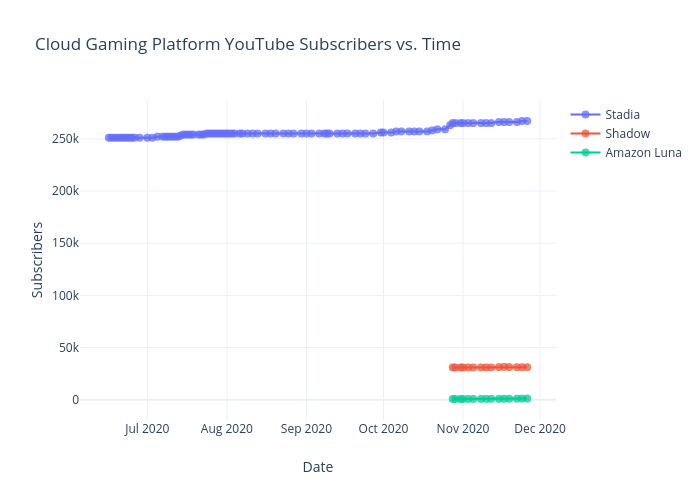
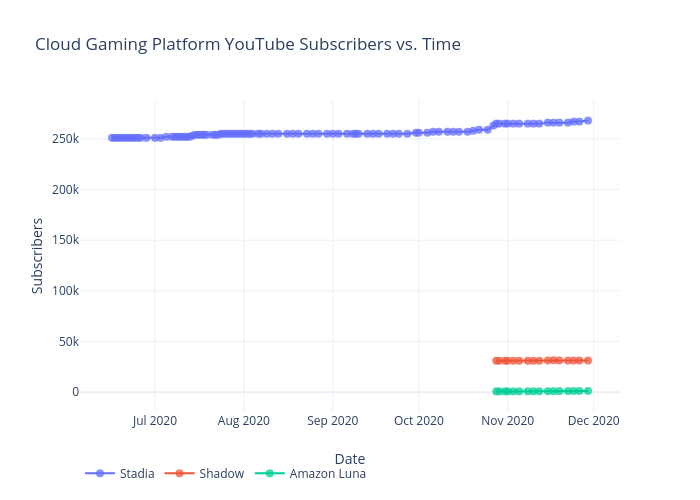
Add files via upload
Nov 29

diff --git a/youtube_platforms/figure.js b/youtube_platforms/figure.js
@@ -211,7 +211,8 @@ var figure = {
                 "266000",
                 "266000",
                 "267000",
-                "267000"
+                "267000",
+                "268000"
             ],
             "marker": {
                 "size": 8,
@@ -428,6 +429,7 @@ var figure = {
                 "31300",
                 "31500",
                 "31300",
+                "31200",
                 "31200",
                 "31200",
                 "31200"
@@ -649,7 +651,8 @@ var figure = {
                 "1010",
                 "1080",
                 "1120",
-                "1180"
+                "1180",
+                "1200"
             ],
             "marker": {
                 "size": 8,
@@ -665,8 +668,8 @@ var figure = {
         "xaxis": {
             "type": "date",
             "range": [
-                "2020-06-05 15:49:18.2742",
-                "2020-12-06 08:10:41.7258"
+                "2020-06-05 14:19:50.0141",
+                "2020-12-09 09:40:09.9859"
             ],
             "title": {
                 "text": "Date"
@@ -676,13 +679,19 @@ var figure = {
         "yaxis": {
             "type": "linear",
             "range": [
-                -17494.174293719356,
-                285245.17429371935
+                -17795.93408921007,
+                286546.93408921006
             ],
             "title": {
                 "text": "Subscribers"
             },
             "autorange": true
+        },
+        "legend": {
+            "x": 0,
+            "y": -0.15,
+            "bgcolor": "rgba(255, 255, 255, 0.01)",
+            "orientation": "h"
         },
         "autosize": true,
         "template": {
